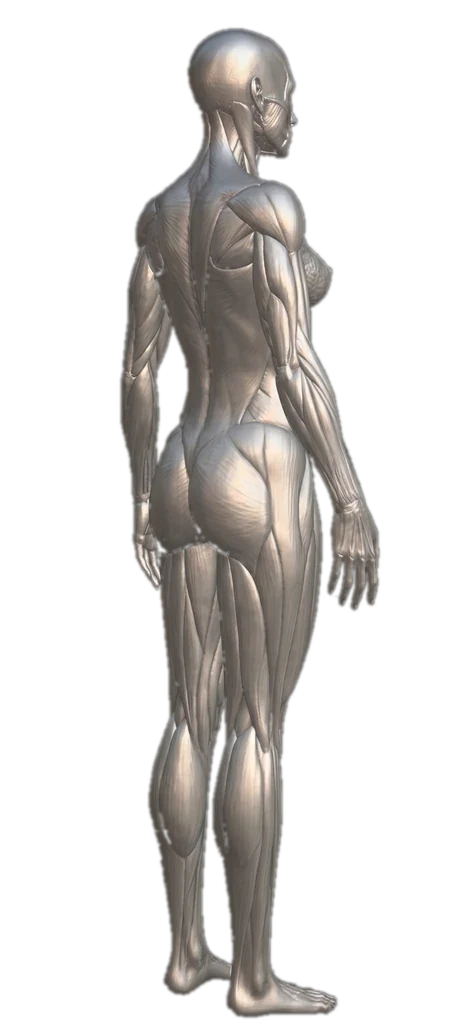
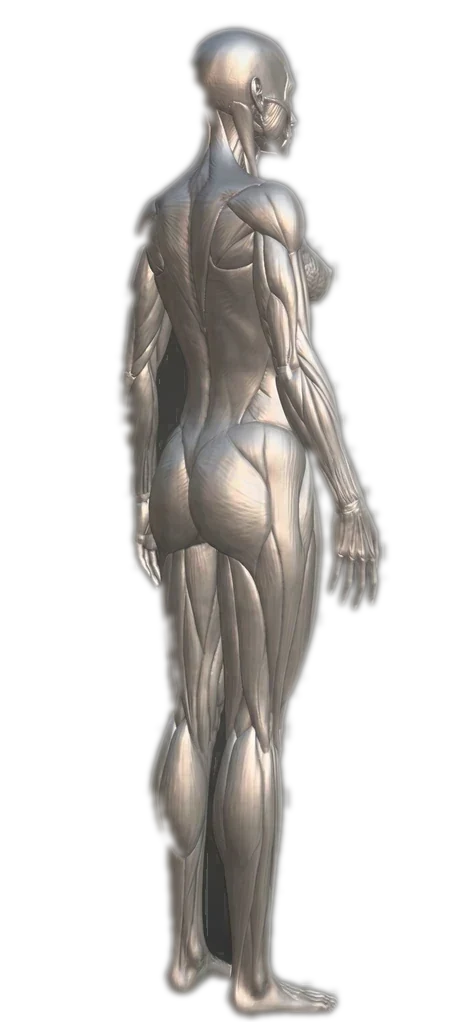
fix: mascot flood-fill + hole filling (armpit/between legs) + gender reset on switch

diff --git a/src/components/TurntableMascot.js b/src/components/TurntableMascot.js
@@ -62,19 +62,29 @@ export default function TurntableMascot({
   autoSpin = true,
   style,
 }) {
-  const frames = gender === 'female' ? FEMALE_FRAMES : MALE_FRAMES;
+  // Select correct frame array based on gender — never mix male/female
+  const frames    = gender === 'female' ? FEMALE_FRAMES : MALE_FRAMES;
   const hasFrames = frames.some(f => f !== null);
 
-  const [frameIdx,  setFrameIdx]  = useState(0); // 0-7
+  const [frameIdx,  setFrameIdx]  = useState(0);
   const [nextIdx,   setNextIdx]   = useState(1);
   const [isDragging,setIsDragging]= useState(false);
 
-  const opacity     = useRef(new Animated.Value(1)).current;  // current frame
-  const crossOpacity= useRef(new Animated.Value(0)).current;  // next frame (crossfade)
+  const opacity     = useRef(new Animated.Value(1)).current;
+  const crossOpacity= useRef(new Animated.Value(0)).current;
   const dragOffset  = useRef(0);
   const autoTimer   = useRef(null);
   const currentIdx  = useRef(0);
   const spinning    = useRef(false);
+
+  // Reset to frame 0 when gender changes so male/female never show wrong frames
+  useEffect(() => {
+    currentIdx.current = 0;
+    setFrameIdx(0);
+    setNextIdx(1);
+    crossOpacity.setValue(0);
+    opacity.setValue(1);
+  }, [gender]);
 
   // Clamp index to 0-7
   const clamp = (i) => ((i % FRAME_COUNT) + FRAME_COUNT) % FRAME_COUNT;
